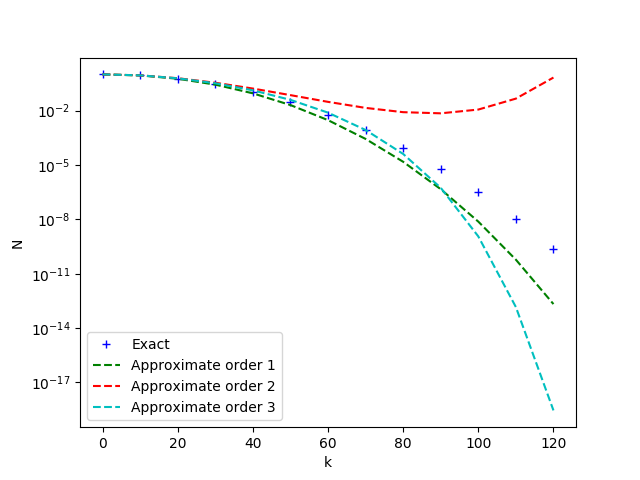
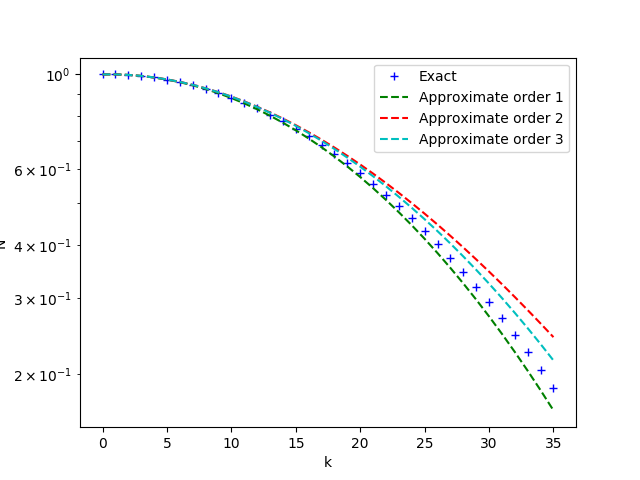
better tidbits plot

diff --git a/tidbits/2birthdays.py b/tidbits/2birthdays.py
@@ -30,7 +30,10 @@ def genplot(n, FN='birthdays_approx', order=1):
     """
     generate plot for a given value of N
     """
-    k_vals = range(0, int(n / 3) if order > 1 else n, 10)
+    if order <= 1:
+        k_vals = range(0, n, 10)
+    else:
+        k_vals = range(int(n/10))
     p_exact = []
     p_approx = [list() for _ in range(order)]
     styles = ['g--', 'r--', 'c--', 'm--']
